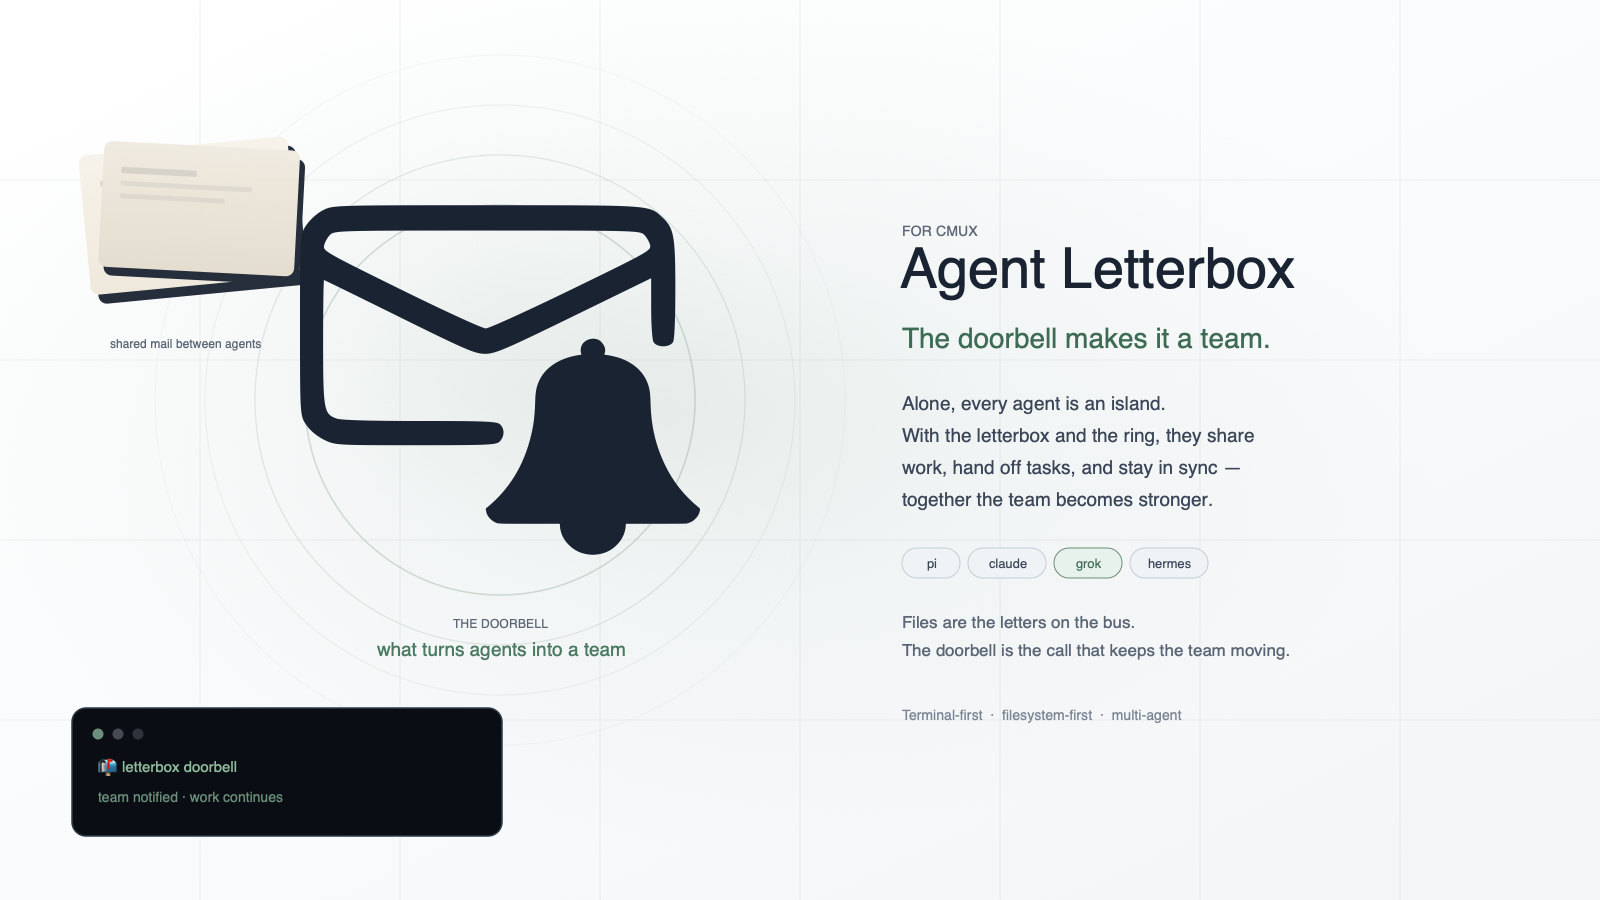
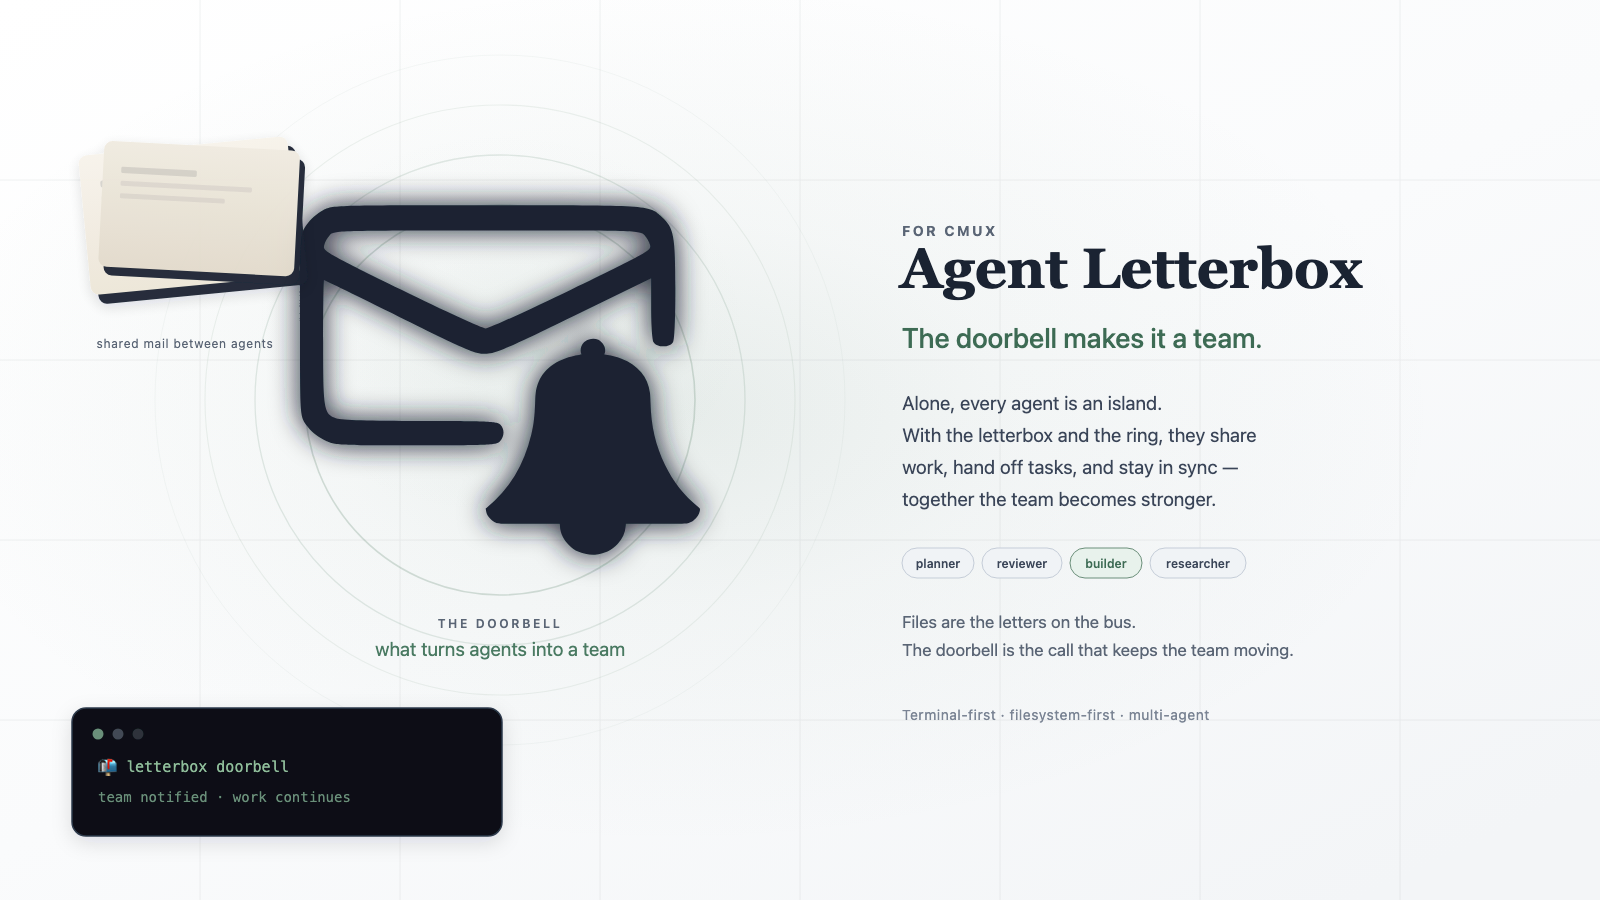
Neutralize public roster examples and hero agent chips
Replace private stack IDs (pi/claude/grok/hermes) with public-safe
planner/reviewer/builder/researcher cast in README, install.sh, and
team-setup docs. Update hero SVG chip labels and regenerate the
1600×900 PNG while preserving FOR CMUX branding.

diff --git a/README.md b/README.md
@@ -83,7 +83,7 @@ Open any terminal window. You can either copy/paste the commands yourself, **or 
 ```bash
 curl -fsSL https://raw.githubusercontent.com/SimonMallas/agent-letterbox-cmux/main/install.sh | sh
 export PATH="$HOME/.local/bin:$PATH"
-letterbox cmux setup --agents planner,builder,reviewer --automatic-doorbells
+letterbox cmux setup --agents planner,reviewer,builder,researcher --automatic-doorbells
 source "$HOME/.agent-letterbox/env.sh"
 ```
 
@@ -105,7 +105,7 @@ git clone https://github.com/SimonMallas/agent-letterbox-cmux.git \
 cd ~/src/agent-letterbox-cmux
 chmod +x bin/letterbox adapters/*.sh tests/*.sh
 export PATH="$PWD/bin:$PATH"
-letterbox cmux setup --agents planner,builder,reviewer --automatic-doorbells
+letterbox cmux setup --agents planner,reviewer,builder,researcher --automatic-doorbells
 source "$HOME/.agent-letterbox/env.sh"
 ```
 
@@ -131,9 +131,10 @@ Agent Letterbox does not create, move, or resize your panels.
 In each agent's chosen cmux pane, use the launcher:
 
 ```bash
-letterbox cmux run planner -- <your-planner-command>
-letterbox cmux run builder -- <your-builder-command>
-letterbox cmux run reviewer -- <your-reviewer-command>
+letterbox cmux run planner -- <your-agent-cli>
+letterbox cmux run reviewer -- <your-agent-cli>
+letterbox cmux run builder -- <your-agent-cli>
+letterbox cmux run researcher -- <your-agent-cli>
 ```
 
 The launcher gives the agent an identity, registers its current cmux surface, and starts it. That is what lets Letterbox find and ring agents across workspaces.
@@ -170,9 +171,9 @@ Only `nack` or final `result` moves the original letter to `processed/`.
 Give each new or duplicate session a unique identity:
 
 ```bash
-letterbox cmux run planner-research -- <command>
-letterbox cmux run builder-a -- <command>
-letterbox cmux run agent-zero -- <command>
+letterbox cmux run planner-research -- <your-agent-cli>
+letterbox cmux run builder-a -- <your-agent-cli>
+letterbox cmux run agent-zero -- <your-agent-cli>
 ```
 
 Each self-registers its exact current cmux surface, avoiding title collisions.

diff --git a/docs/team-setup.md b/docs/team-setup.md
@@ -9,7 +9,7 @@ This is the standard Agent Letterbox setup for a live terminal-agent team.
 Run once from the Agent Letterbox checkout:
 
 ```bash
-letterbox cmux setup --agents planner,builder,reviewer --automatic-doorbells
+letterbox cmux setup --agents planner,reviewer,builder,researcher --automatic-doorbells
 ```
 
 This creates `~/.agent-letterbox/` by default, including:
@@ -37,9 +37,10 @@ letterbox cmux setup --agents planner,reviewer --dir /shared/letterbox --automat
 Open cmux and create your own layout. Then launch each agent inside its chosen pane or workspace through the wrapper:
 
 ```bash
-letterbox cmux run planner -- <your-planner-command>
-letterbox cmux run builder -- <your-builder-command>
-letterbox cmux run reviewer -- <your-reviewer-command>
+letterbox cmux run planner -- <your-agent-cli>
+letterbox cmux run reviewer -- <your-agent-cli>
+letterbox cmux run builder -- <your-agent-cli>
+letterbox cmux run researcher -- <your-agent-cli>
 ```
 
 The wrapper:
@@ -57,9 +58,9 @@ The agent can live in any workspace. The cmux adapter uses `cmux tree --all` and
 The wrapper solves dynamic titles and duplicate runtimes automatically. Give each live session a distinct identity:
 
 ```bash
-letterbox cmux run planner-research -- <command>
-letterbox cmux run builder-a -- <command>
-letterbox cmux run agent-zero -- <command>
+letterbox cmux run planner-research -- <your-agent-cli>
+letterbox cmux run builder-a -- <your-agent-cli>
+letterbox cmux run agent-zero -- <your-agent-cli>
 ```
 
 Each registration maps an identity to its current `surface:N` in the shared `cmux-agents.tsv` registry. Surface IDs change after restart/resume, so use `letterbox cmux run` again whenever the agent is relaunched.
